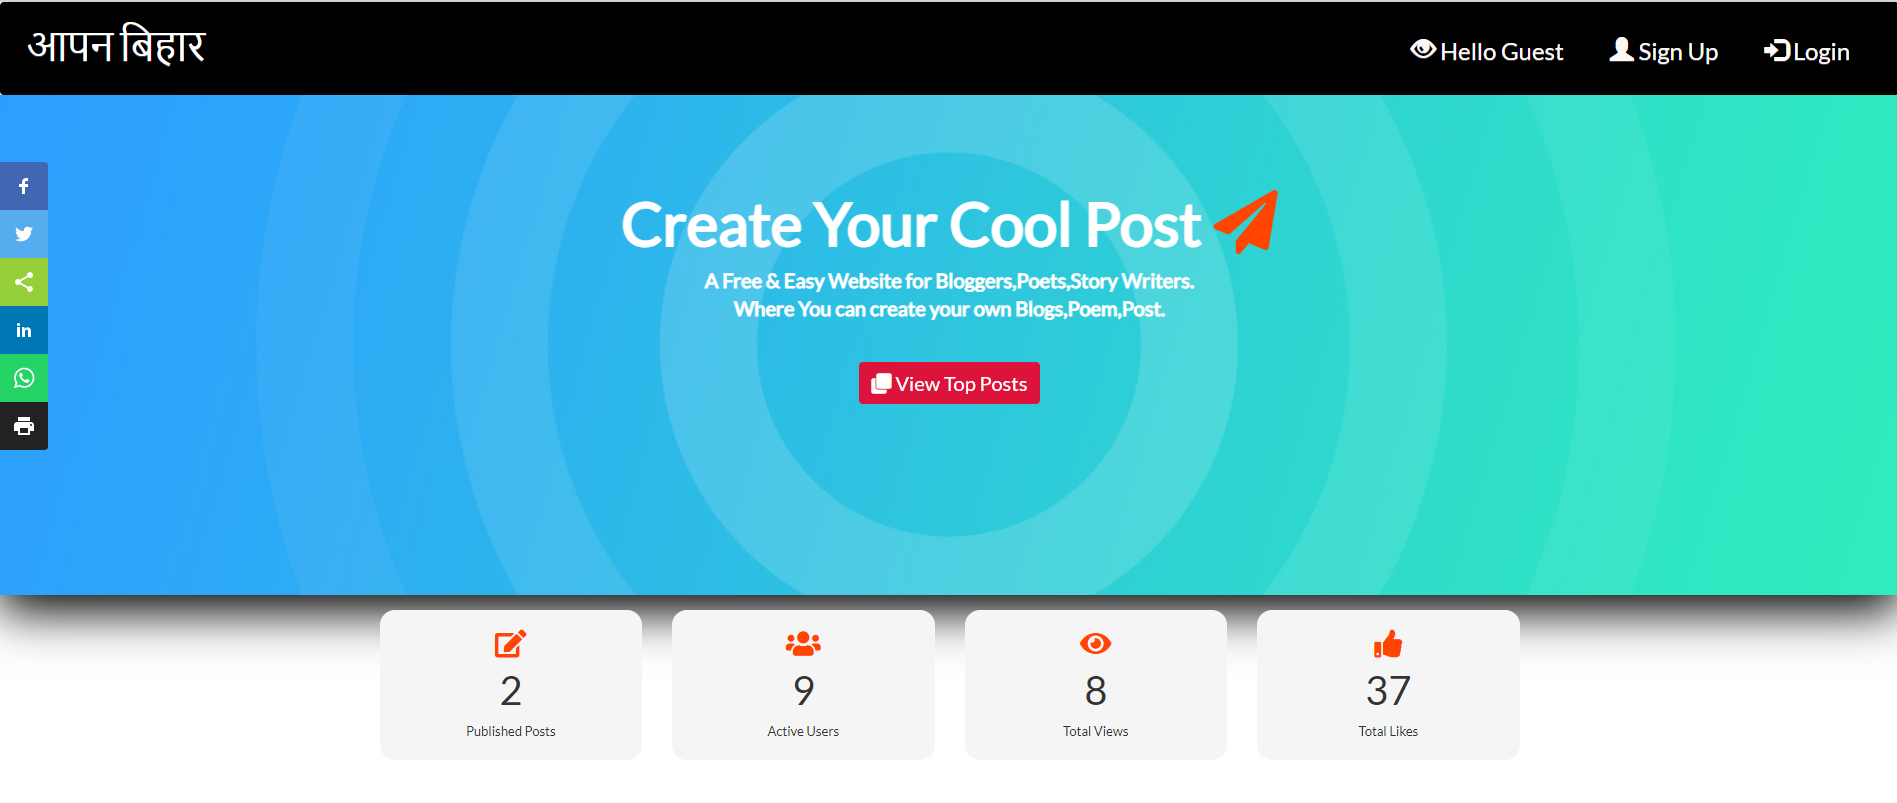
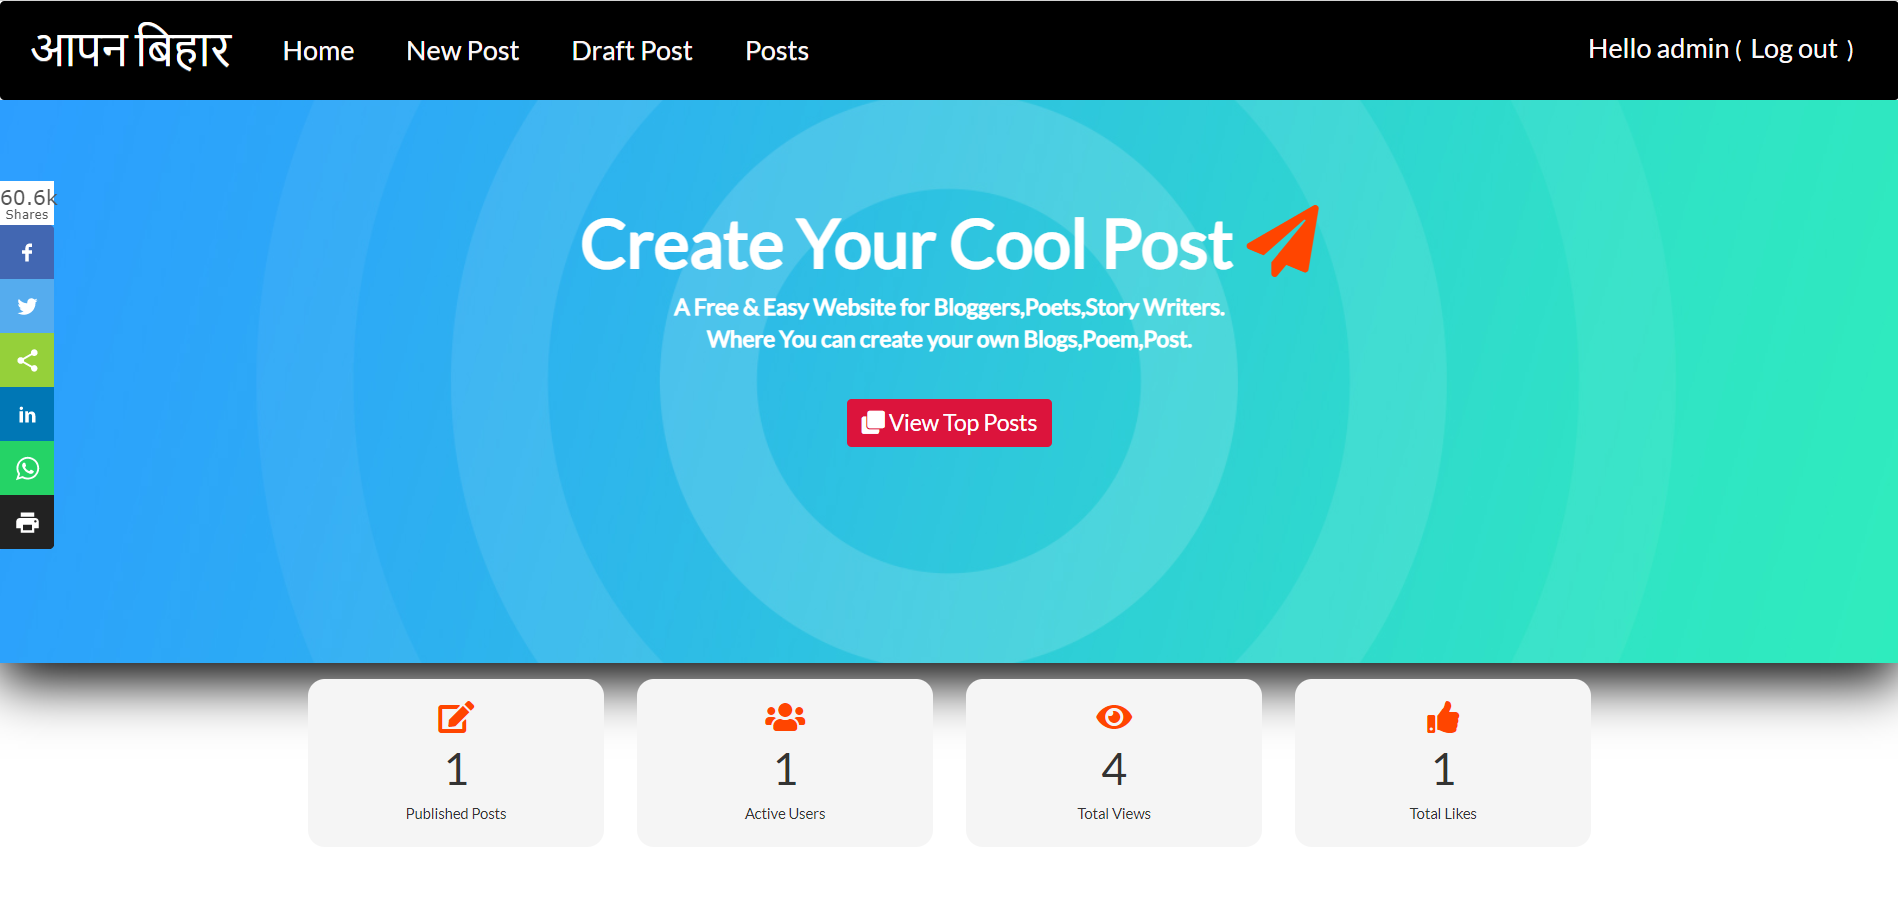
updated like fx

diff --git a/blog/templates/blog/index.html b/blog/templates/blog/index.html
@@ -99,13 +99,15 @@
       <h2 class="timer count-title count-number" data-to="{{totalviews.post_views__sum}}" data-speed="1500"></h2>
       <p class="count-text ">Total Views</p>
     </div></div>
+    
               <div class="countdiv col-md-3">
               <div class="counter">
       <i class="fa fa-thumbs-up fa-2x"></i>
-      <h2 class="timer count-title count-number" data-to="{{totallieks.likes__sum}}" data-speed="1500"></h2>
+      <h2 class="timer count-title count-number" data-to="{{likeSum.total_likes}}" data-speed="1500"></h2>
       <p class="count-text ">Total Likes</p>
     </div>
               </div>
+    
          </div>
 </div>
 

diff --git a/blog/views.py b/blog/views.py
@@ -1,44 +1,52 @@
 from django.shortcuts import render, get_object_or_404
 from django.utils import timezone
-from .models import Post,Comment
+from .models import Post, Comment
 from .forms import PostForm, CommentForm
 from django.shortcuts import redirect
 from django.contrib import messages
 from django.contrib.auth.decorators import login_required
 from django.core.paginator import Paginator, PageNotAnInteger, EmptyPage
 from django.contrib.auth.models import User
-from django.db.models import Sum
+from django.db.models import Count, Sum
 from django.http import HttpResponseRedirect
 
 # Create your views here.
 
+
 def index_page(request):
-    posts = Post.objects.filter(published_date__lte=timezone.now()).order_by('-post_views')[:3]
+    posts = Post.objects.filter(
+        published_date__lte=timezone.now()).order_by('-post_views')[:3]
     total_posts = Post.objects.count()
     total_users = User.objects.count()
-    totalviews = Post.objects.all().aggregate(Sum('post_views'))
-    totallikes = Post.objects.all().aggregate(Sum('likes'))
-    return render(request, 'blog/index.html',{'posts':posts,
-        'total_posts':total_posts,'total_users': total_users,
-        'totalviews':totalviews,'totallieks':totallikes})
+    likeSum = (
+        Post.objects
+        .all()  # getting all posts
+        .annotate(likes_count=Count('likes'))  # counting likes on each post
+        # Summing likes on each post to give total likes
+        .aggregate(total_likes=Sum('likes_count'))
+    )
 
-
+    total_views = Post.objects.all().aggregate(Sum('post_views'))
+    print(likeSum, total_views)
+    return render(request, 'blog/index.html', {'posts': posts,
+                                               'total_posts': total_posts, 'total_users': total_users,
+                                               'totalviews': total_views, 'likeSum': likeSum})
 
 
 def post_list(request):
-    posts = Post.objects.filter(published_date__lte=timezone.now()).order_by('published_date')
+    posts = Post.objects.filter(
+        published_date__lte=timezone.now()).order_by('published_date')
     paginator = Paginator(posts, 4)  # 3 posts in each page
     page = request.GET.get('page')
     try:
         post_lists = paginator.page(page)
     except PageNotAnInteger:
-            # If page is not an integer deliver the first page
+        # If page is not an integer deliver the first page
         post_lists = paginator.page(1)
     except EmptyPage:
         # If page is out of range deliver last page of results
         post_lists = paginator.page(paginator.num_pages)
-    return render(request, 'blog/post_list.html', {'page': page,'post_lists': post_lists})
-
+    return render(request, 'blog/post_list.html', {'page': page, 'post_lists': post_lists})
 
 
 def post_detail(request, pk):
@@ -58,24 +66,22 @@ def post_detail(request, pk):
             return redirect('post_detail', pk=post.pk)
     else:
         form = CommentForm()
-    return render(request, 'blog/post_details.html', 
-        {'form': form, 'post': post,'is_liked':is_liked,'total_likes':post.total_likes()})
-
-
-    
+    return render(request, 'blog/post_details.html',
+                  {'form': form, 'post': post, 'is_liked': is_liked, 'total_likes': post.total_likes()})
     '''post = get_object_or_404(Post, pk=pk)
     return render(request, 'blog/post_detail.html', {'post': post})  '''
 
+
 def like_post(request):
-    post = get_object_or_404(Post,id=request.POST.get('post_id'))
-    is_liked = False
+    post = get_object_or_404(Post, id=request.POST.get('post_id'))
+    #is_liked = False
     if post.likes.filter(id=request.user.id).exists():
         is_liked = False
         post.likes.remove(request.user)
     else:
         is_liked = True
         post.likes.add(request.user)
-    return HttpResponseRedirect(post.get_absolute_url())   
+    return HttpResponseRedirect(post.get_absolute_url())
 
 
 @login_required
@@ -89,7 +95,8 @@ def post_new(request):
             return redirect('post_detail', pk=post.pk)
     else:
         form = PostForm()
-    return render(request, 'blog/post_edit.html', {'form': form})   
+    return render(request, 'blog/post_edit.html', {'form': form})
+
 
 @login_required
 def post_edit(request, pk):
@@ -105,24 +112,29 @@ def post_edit(request, pk):
         form = PostForm(instance=post)
     return render(request, 'blog/post_edit.html', {'form': form})
 
+
 @login_required
 def post_draft_list(request):
-    posts = Post.objects.filter(published_date__isnull=True).order_by('created_date')
+    posts = Post.objects.filter(
+        published_date__isnull=True).order_by('created_date')
     return render(request, 'blog/post_draft_list.html', {'posts': posts})
+
 
 @login_required
 def post_publish(request, pk):
     post = get_object_or_404(Post, pk=pk)
     post.publish()
-    return redirect('post_detail', pk=pk) 
+    return redirect('post_detail', pk=pk)
+
 
 @login_required
 def post_remove(request, pk):
     post = get_object_or_404(Post, pk=pk)
-    
+
     if request.user == post.author:
         post.delete()
-    return redirect('post_list')   
+    return redirect('post_list')
+
 
 '''def add_comment_to_post(request, pk):
     post = get_object_or_404(Post, pk=pk)
@@ -137,11 +149,14 @@ def post_remove(request, pk):
         form = CommentForm()
     return render(request, 'blog/add_comment_to_post.html', {'form': form})
 '''
+
+
 @login_required
 def comment_approve(request, pk):
     comment = get_object_or_404(Comment, pk=pk)
     comment.approve()
     return redirect('post_detail', pk=comment.post.pk)
+
 
 @login_required
 def comment_remove(request, pk):

diff --git a/blog/models.py b/blog/models.py
@@ -6,41 +6,45 @@ from django.urls import reverse
 
 
 class Post(models.Model):
-    author = models.ForeignKey(settings.AUTH_USER_MODEL, on_delete=models.CASCADE)
-    title = models.CharField(verbose_name ="Title for Your Blog", max_length=200)
-    text = models.TextField(verbose_name ="Blog Content",)
+    author = models.ForeignKey(
+        settings.AUTH_USER_MODEL, on_delete=models.CASCADE)
+    title = models.CharField(
+        verbose_name="Title for Your Blog", max_length=200)
+    text = models.TextField(verbose_name="Blog Content",)
     created_date = models.DateTimeField(default=timezone.now)
     published_date = models.DateTimeField(blank=True, null=True)
-    post_views=models.IntegerField(default=0)
-    likes =models.ManyToManyField(User, related_name='likes',blank=True)
+    post_views = models.IntegerField(default=0)
+    likes = models.ManyToManyField(User, related_name='likes', blank=True)
+
     def __str__(self):
-            return self.title
+        return self.title
+
     def publish(self):
-            self.published_date = timezone.now()
-            self.save()
-    
+        self.published_date = timezone.now()
+        self.save()
+
     def approved_comments(self):
-        return self.comments.filter(approved_comment=True) 
-     
+        return self.comments.filter(approved_comment=True)
+
     def get_absolute_url(self):
-            return reverse('post_detail', kwargs={'pk':self.pk}) 
+        return reverse('post_detail', kwargs={'pk': self.pk})
 
     def total_likes(self):
-            return self.likes.count()                   
+        return self.likes.count()
+
 
 class Comment(models.Model):
-    post = models.ForeignKey('Post', on_delete=models.CASCADE, related_name='comments')
-    author = models.CharField(verbose_name ='Your Name(Not Username)',max_length=200)
-    text = models.TextField(verbose_name ='Comment')
+    post = models.ForeignKey(
+        'Post', on_delete=models.CASCADE, related_name='comments')
+    author = models.CharField(
+        verbose_name='Your Name(Not Username)', max_length=200)
+    text = models.TextField(verbose_name='Comment')
     email = models.EmailField(default='')
     created_date = models.DateTimeField(default=timezone.now)
     approved_comment = models.BooleanField(default=True)
-
 
     def __str__(self):
         return self.text
 
     def total_comments(self):
-            return self.approved_comment.count()     
-
-        
+        return self.approved_comment.count()

diff --git a/blog/migrations/0011_post_countlikes.py b/blog/migrations/0011_post_countlikes.py
@@ -1,0 +1,18 @@
+# Generated by Django 3.0.6 on 2021-05-26 10:35
+
+from django.db import migrations, models
+
+
+class Migration(migrations.Migration):
+
+    dependencies = [
+        ('blog', '0010_auto_20200713_2255'),
+    ]
+
+    operations = [
+        migrations.AddField(
+            model_name='post',
+            name='countLikes',
+            field=models.IntegerField(default=0),
+        ),
+    ]

diff --git a/blog/migrations/0012_remove_post_countlikes.py b/blog/migrations/0012_remove_post_countlikes.py
@@ -1,0 +1,17 @@
+# Generated by Django 3.0.6 on 2021-05-26 10:44
+
+from django.db import migrations
+
+
+class Migration(migrations.Migration):
+
+    dependencies = [
+        ('blog', '0011_post_countlikes'),
+    ]
+
+    operations = [
+        migrations.RemoveField(
+            model_name='post',
+            name='countLikes',
+        ),
+    ]

diff --git a/Readme.md b/Readme.md
@@ -88,7 +88,7 @@ Users can create blog posts from the front end and add save it as a draft for fi
 ## Tech Stacks
 
 * **Language:**  Python 3.x
-* **Framework:** Django 3.1.5
+* **Framework:** Django 3.0.6
 
 ## Latest Fixes
 
